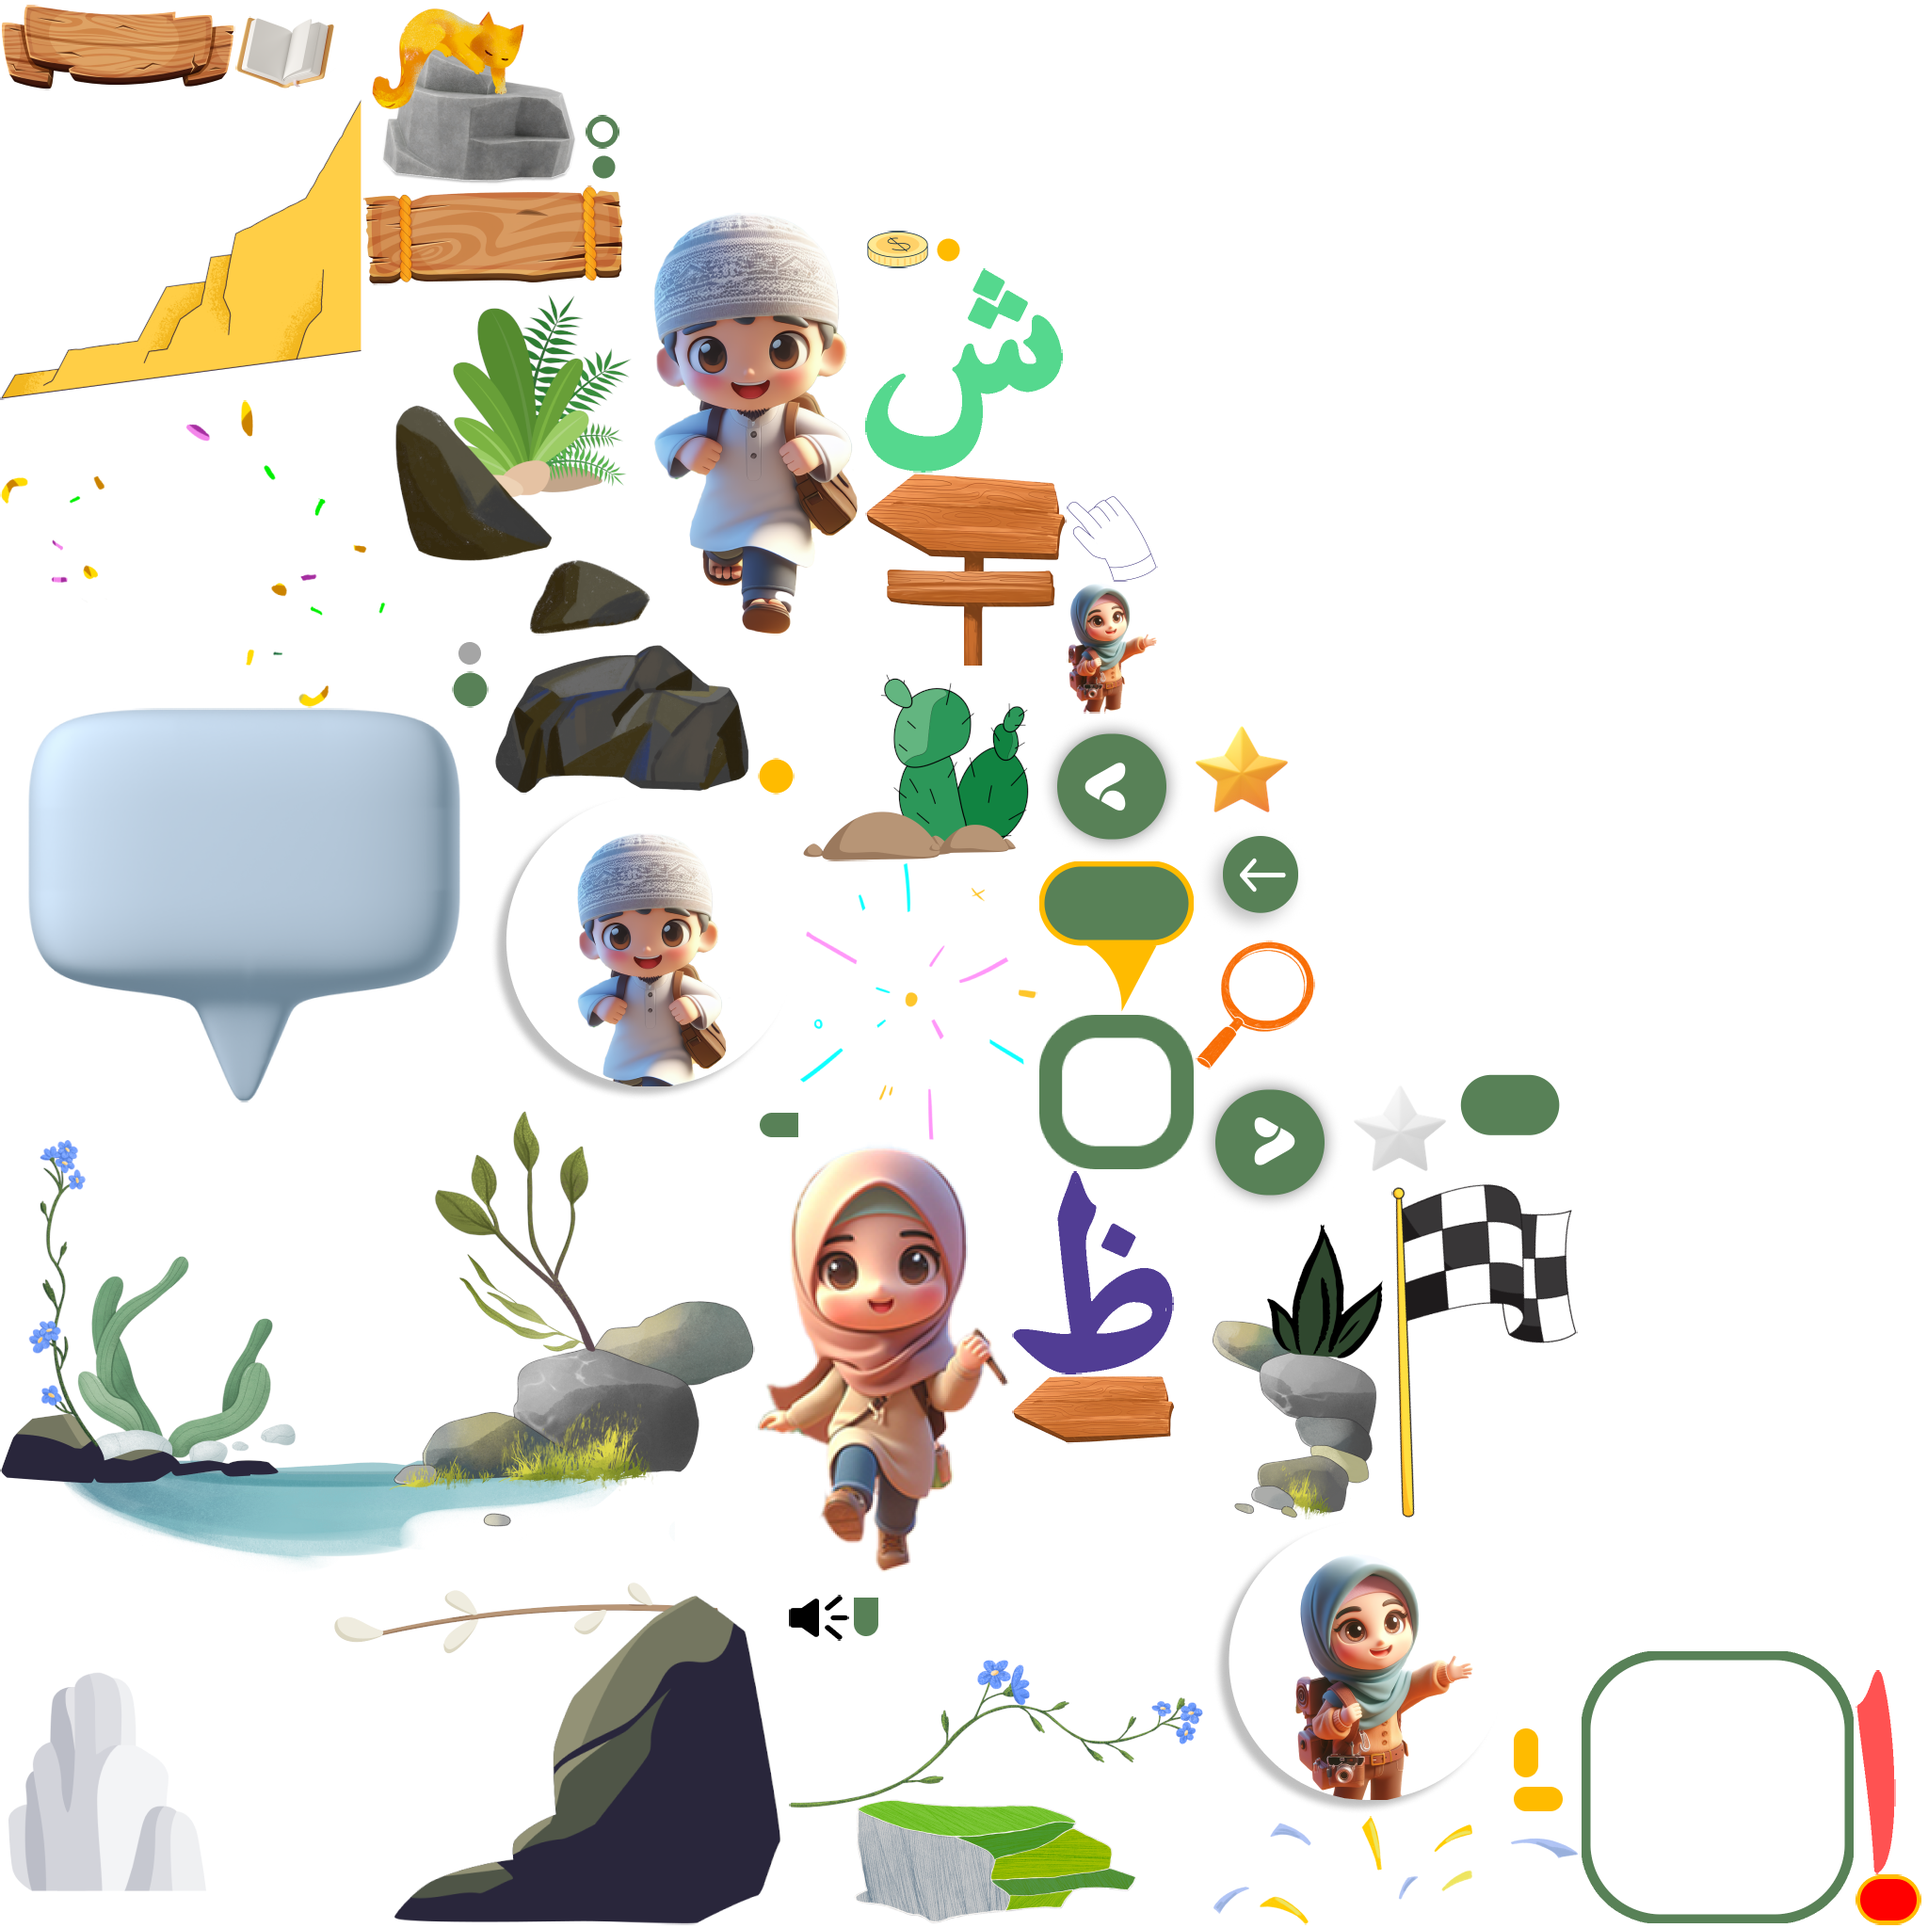
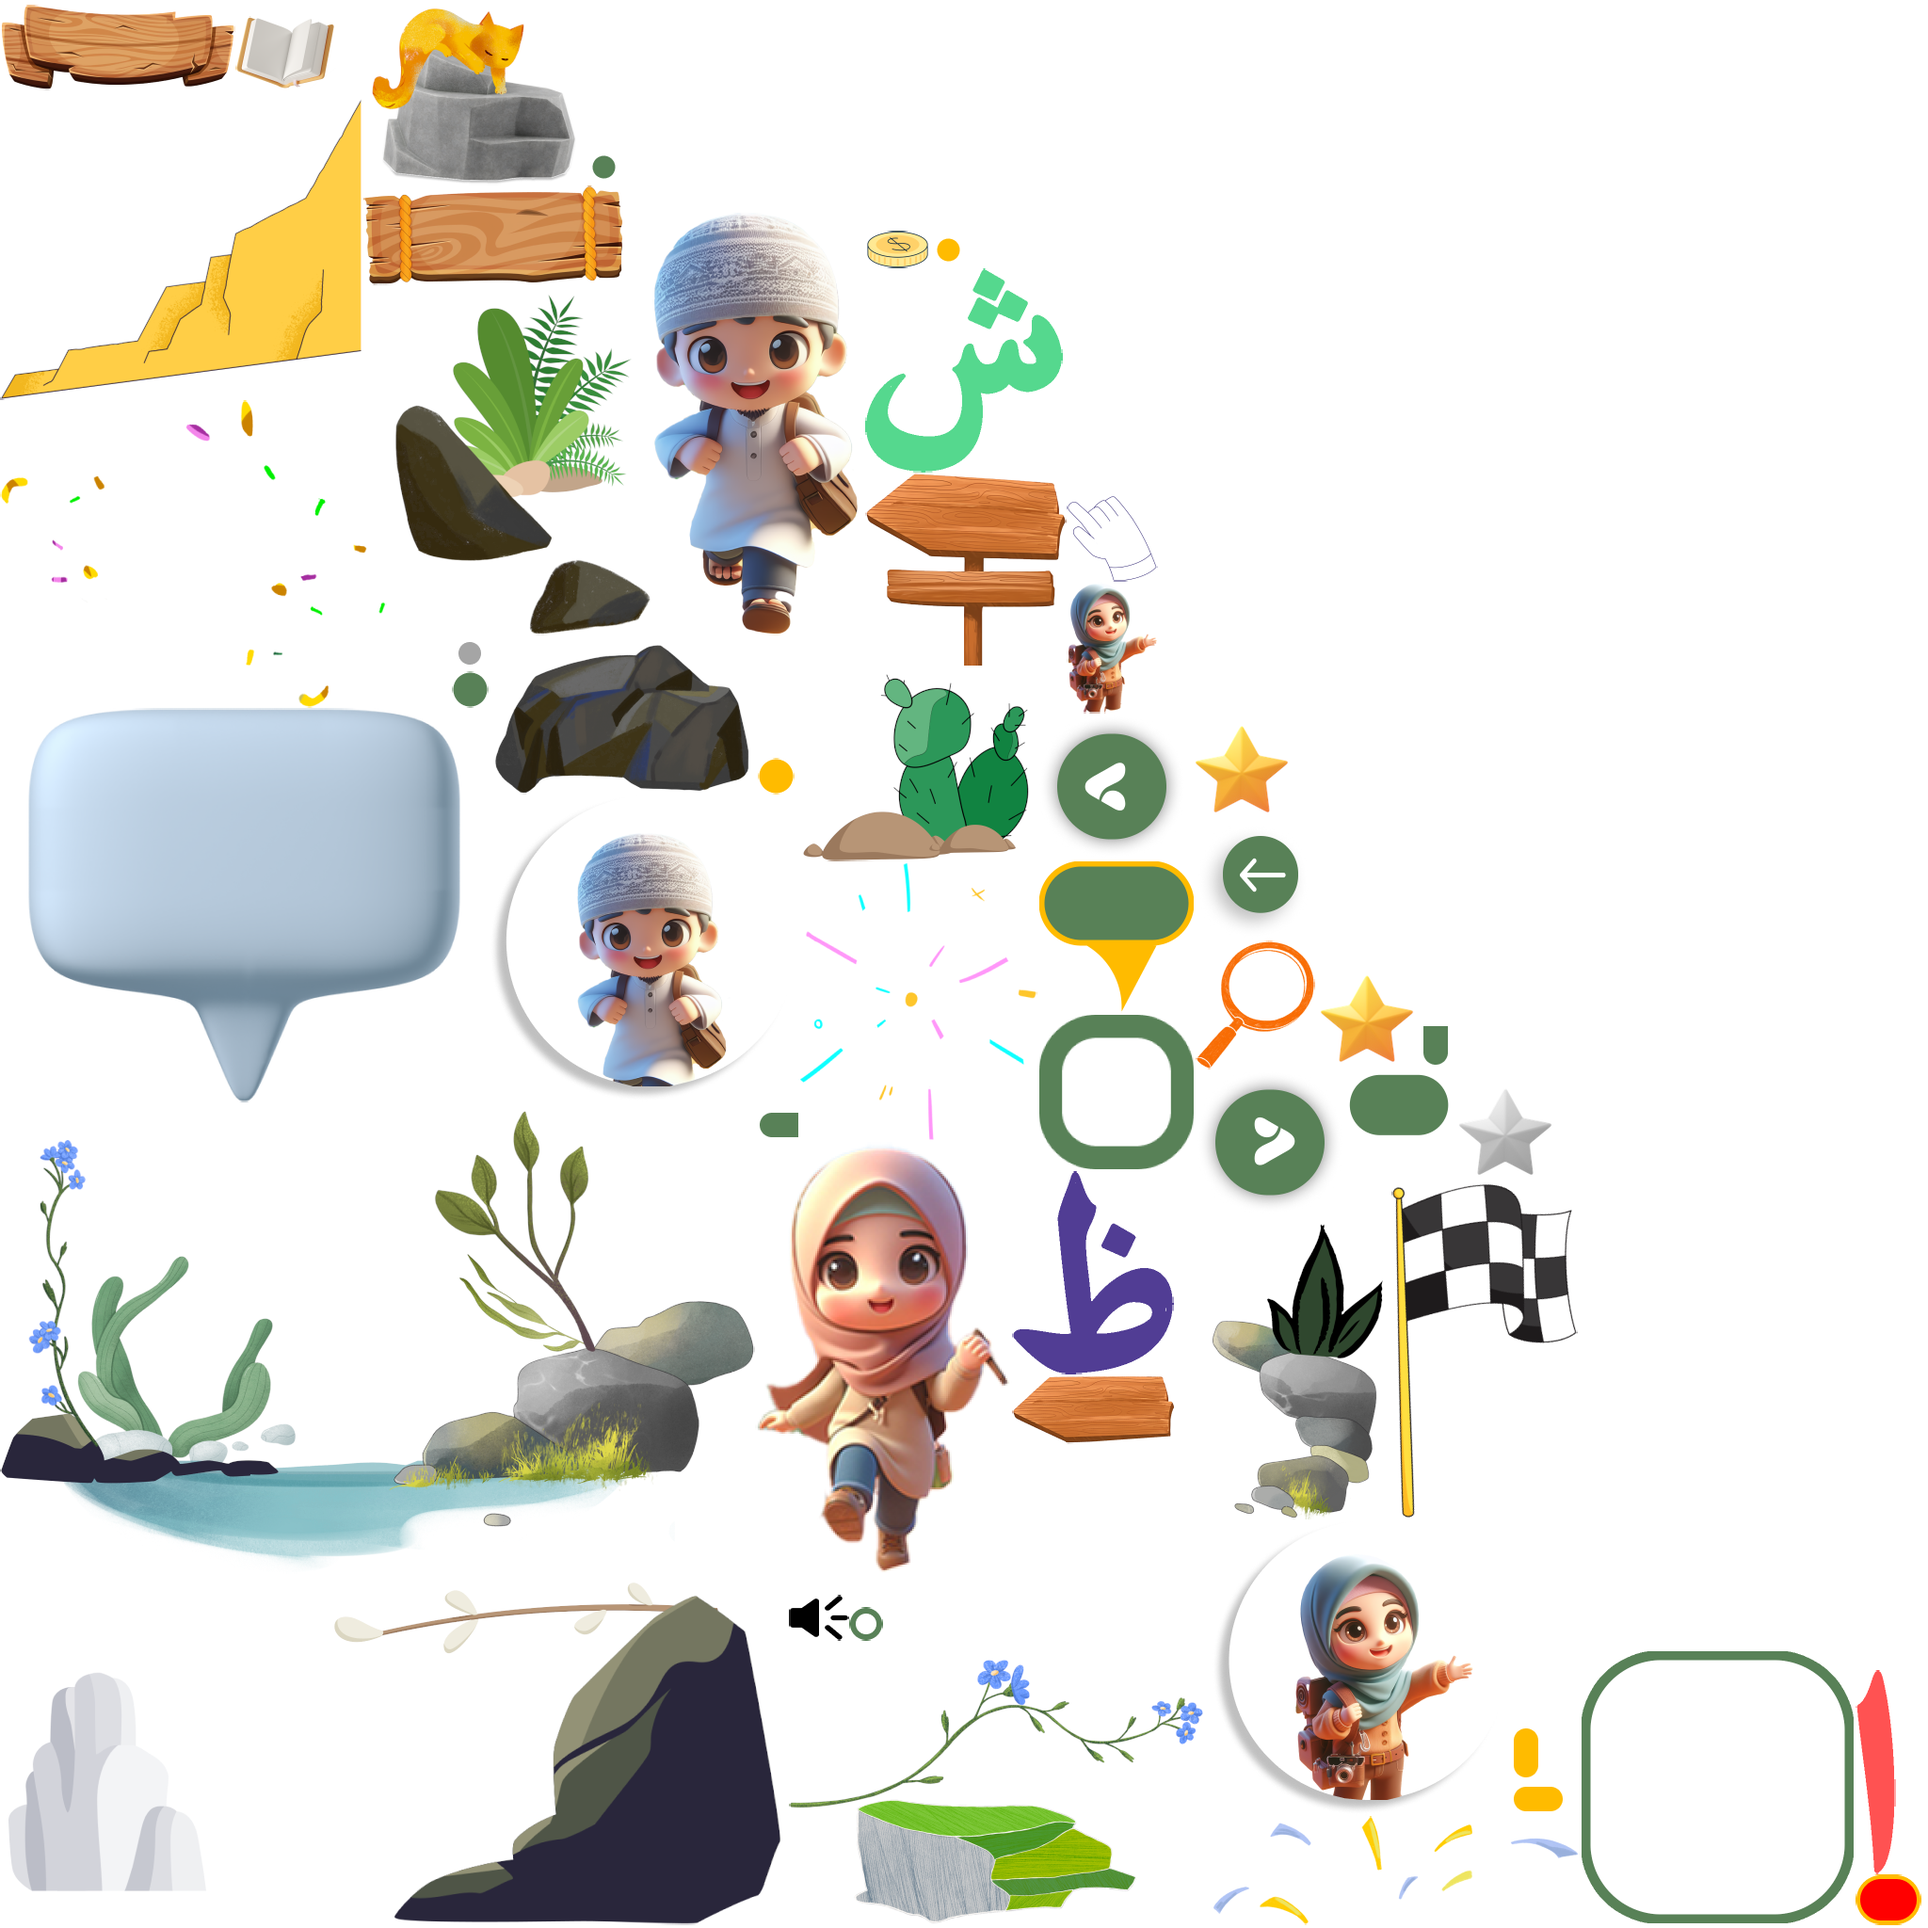
add custom star graphic

Changed region(s): [[0.6875, 0.5, 0.8125, 0.625], [0.4375, 0.8125, 0.4688, 0.8438]]

diff --git a/core/src/main/kotlin/com/github/doandadr/petualanganhijaiyah/ui/widget/StarWidget.kt b/core/src/main/kotlin/com/github/doandadr/petualanganhijaiyah/ui/widget/StarWidget.kt
@@ -1,0 +1,75 @@
+package com.github.doandadr.petualanganhijaiyah.ui.widget
+
+import com.badlogic.gdx.scenes.scene2d.ui.Image
+import com.badlogic.gdx.scenes.scene2d.ui.Skin
+import com.badlogic.gdx.scenes.scene2d.ui.WidgetGroup
+import ktx.scene2d.KGroup
+import ktx.scene2d.KWidget
+import ktx.scene2d.Scene2DSkin
+import ktx.scene2d.actor
+
+enum class StarState {
+    HIDDEN,
+    ZERO,
+    ONE,
+    TWO,
+    THREE
+}
+
+class Stars(
+    val skin: Skin,
+    val star1: Image = Image(skin.getDrawable("star-grey")),
+    val star2: Image = Image(skin.getDrawable("star-grey")),
+    val star3: Image = Image(skin.getDrawable("star-grey")),
+):WidgetGroup(star1, star2, star3), KGroup {
+    init {
+        setInitPosition()
+    }
+
+    private fun setInitPosition() {
+        val bumpY = 30f
+        val gapX = 30f
+        star2.setPosition(star1.width + gapX, bumpY)
+        star3.setPosition(star1.width + star2.width + 2 * gapX, star1.y)
+    }
+
+    fun setState(state: StarState) {
+        if (state != StarState.HIDDEN) isVisible = true
+        when (state) {
+            StarState.HIDDEN -> {
+                if (this.isVisible)
+                this.isVisible = false
+            }
+            StarState.ZERO -> {
+                listOf(star1, star2, star3).forEach { star ->
+                    star.setDrawable(skin, "star-grey")
+                }
+            }
+            StarState.ONE -> {
+                star1.setDrawable(skin, "star")
+                star2.setDrawable(skin, "star-grey")
+                star3.setDrawable(skin, "star-grey")
+            }
+            StarState.TWO -> {
+                star1.setDrawable(skin, "star")
+                star2.setDrawable(skin, "star")
+                star3.setDrawable(skin, "star-grey")
+            }
+            StarState.THREE -> {
+                star1.setDrawable(skin, "star")
+                star2.setDrawable(skin, "star")
+                star3.setDrawable(skin, "star")
+            }
+        }
+    }
+}
+
+
+inline fun <S> KWidget<S>.stars(
+    skin: Skin = Scene2DSkin.defaultSkin,
+    init: Stars.(S) -> Unit = {}
+) = actor(
+    Stars(
+        skin,
+    ), init
+)
